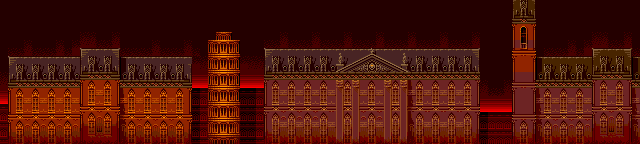
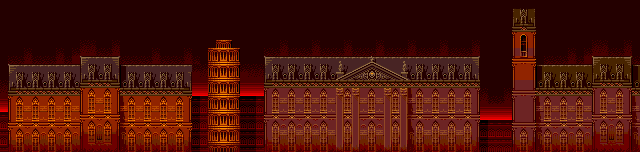
Avanzando con la segunda escena III

Changed region(s): [[0.0, 0.0, 1.0, 0.9722], [0.0, 0.9444, 0.0312, 0.9722]]

diff --git a/DraculaX_PC/Level1Sc2.cpp b/DraculaX_PC/Level1Sc2.cpp
@@ -15,18 +15,20 @@ void Level1Sc2::init(Player& player, GUI& gui, ShaderProgram& spriteShader, Shad
 	backgroundTexs[3].setMagFilter(GL_NEAREST);
 	bg1 = TexturedQuad::createTexturedQuad(glm::vec2(0.f), glm::vec2(1.f), backgroundTexs[0], basicShader);
 	bg2 = TexturedQuad::createTexturedQuad(glm::vec2(0.f), glm::vec2(1.f), backgroundTexs[1], basicShader);
-	bg3 = TexturedQuad::createTexturedQuad(glm::vec2(0.f), glm::vec2(40.f, 1.f), backgroundTexs[2], basicShader);
+	bg3 = TexturedQuad::createTexturedQuad(glm::vec2(0.f), glm::vec2(64.f, 1.f), backgroundTexs[2], basicShader);
 	backgroundSprites.reserve(1);
-	backgroundSprites.emplace_back(Sprite::createSprite(glm::ivec2(640, 40), glm::vec2(40.f, .0625f), &backgroundTexs[3], &basicShader));
+	backgroundSprites.emplace_back(Sprite::createSprite(glm::ivec2(768, 40), glm::vec2(48.f, .0625f), &backgroundTexs[3], &basicShader));
 	backgroundSprites[0]->setNumberAnimations(1);
 	backgroundSprites[0]->setAnimationSpeed(0, 16);
 	backgroundSprites[0]->animatorY(0, 16, 0.f, 0.0625f, 0.f);
 	backgroundSprites[0]->changeAnimation(0);
-	bg1->setPosition(glm::vec2(CAMERA_X, CAMERA_Y+8));
-	bg2->setPosition(glm::vec2(CAMERA_X + SCREEN_WIDTH * 1.5f, CAMERA_Y + SCREEN_HEIGHT+8));
-	bg3->setPosition(glm::vec2(CAMERA_X + SCREEN_WIDTH * 1.5f, CAMERA_Y + SCREEN_HEIGHT + 184+8));
-	backgroundSprites[0]->setPosition(glm::vec2(CAMERA_X + SCREEN_WIDTH * 1.5f, CAMERA_Y + SCREEN_HEIGHT + 144+8));
+	bg1->setPosition(glm::vec2(CAMERA_X, CAMERA_Y));
+	bg2->setPosition(glm::vec2(CAMERA_X + SCREEN_WIDTH * 1.5f, CAMERA_Y + SCREEN_HEIGHT));
+	bg3->setPosition(glm::vec2(CAMERA_X + SCREEN_WIDTH * 4 + 64, CAMERA_Y + SCREEN_HEIGHT + 184+8));
+	backgroundSprites[0]->setPosition(glm::vec2(CAMERA_X + SCREEN_WIDTH * 2.f, CAMERA_Y + SCREEN_HEIGHT + 144+8));
 	projections.resize(3);
+
+	//SoundEngine::instance().playStageSong(Game::STAGE1);
 }
 
 void Level1Sc2::update(int deltaTime)
@@ -40,10 +42,11 @@ void Level1Sc2::render()
 	basicShader->use();
 	basicShader->setUniformMatrix4f("projection", projections[0]);
 	bg2->render();
-	bg3->render();
+	basicShader->setUniformMatrix4f("projection", projections[1]);
 	backgroundSprites[0]->render();
 	basicShader->setUniformMatrix4f("projection", projections[2]);
 	bg1->render();
+	bg3->render();
 	glm::mat4 modelview = glm::mat4(1.0f);
 	basicShader->setUniformMatrix4f("modelview", modelview);
 	map->render();
@@ -93,7 +96,7 @@ void Level1Sc2::initActors(Player* player)
 
 void Level1Sc2::updateCamera()
 {
-	glm::vec2 playerPos = player->getPosition();
+	glm::vec2 playerPos = player->getPosition() + player->myCenter();
 	//cout << playerPos.y << endl;
 	const float multipliers[3] = { 0.375f, 0.5f, 1.f };
 	for (int i = 0; i < 3; i++)
